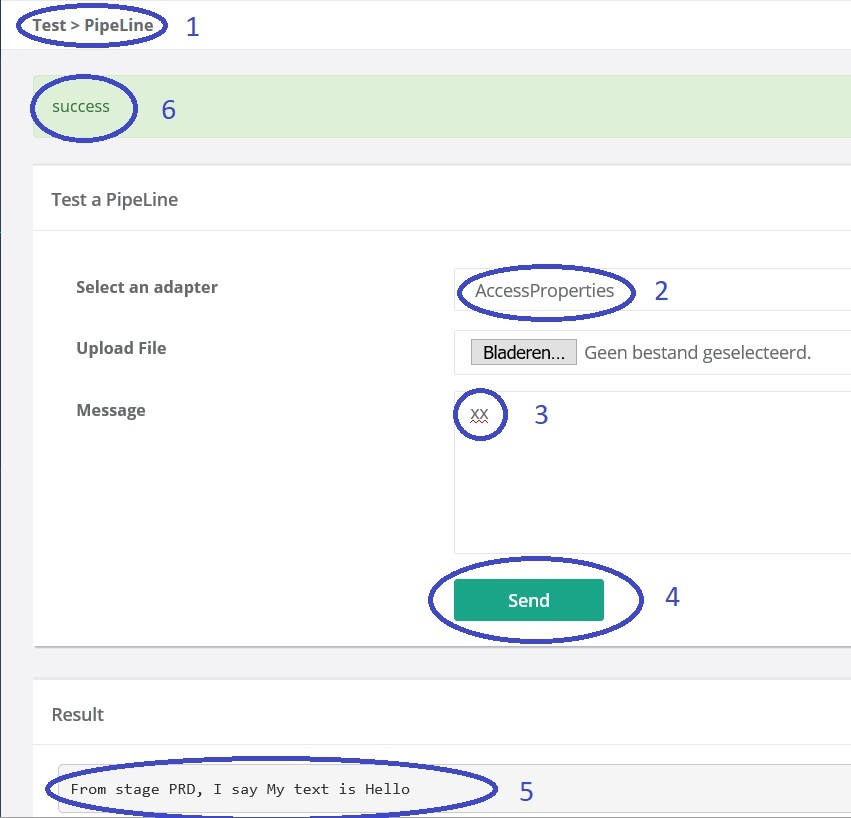
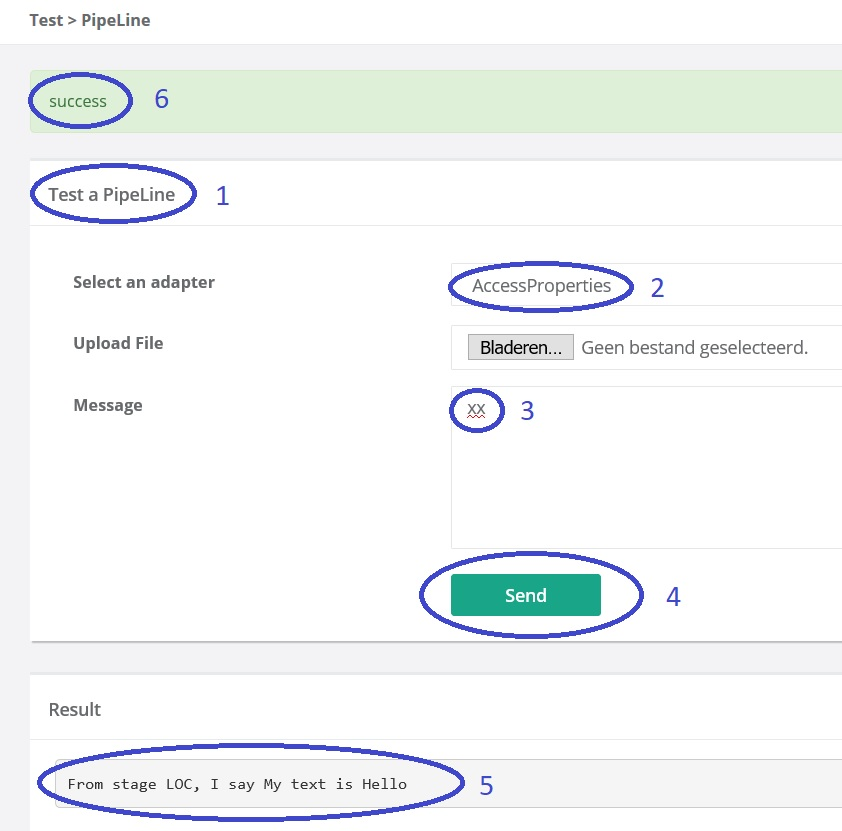
Describe deploying Larva tests by hand

diff --git a/docs/source/deploying/tomcatBasic.rst b/docs/source/deploying/tomcatBasic.rst
@@ -21,7 +21,14 @@ As a starting point you need a Linux PC, a Linux virtual machine or a Docker con
         |- Configuration.xml
         |- ConfigurationReferenceProperties.xml
         |- DeploymentSpecifics.properties
+  |- tests
+     |- myConfig
+        |- scenario01.properties
+        |- step1.txt
+        |- step2.txt
   |- downloadLibraries.sh
+  |- Dockerfile
+  |- resorceDef
 
 When you are done with these preparations, please do the following:
 
@@ -117,9 +124,24 @@ With these steps, you have deployed the Frank!Framework on your Docker container
      >> ls
 
    You should see the copied files within your deployment.
-#. The ``configurations`` directory is stored outside the deployment on your application server. You can use the copy you stored in ``/home/root/Downloads/work/configurations``. This is not the default location expected by the Frank!Framework. You have to tell the Frank!Framework that you choose a custom directory for configuration ``myConfig``. You will do this by setting a system property. You can set system properties in Tomcat by defining them in file ``/usr/local/tomcat/conf/catalina.properties``. Please add the following line to this file: ::
+#. You need to set the DTAP stage as a system property. You can set system properties in Tomcat by defining them in file ``/usr/local/tomcat/conf/catalina.properties``. Please add the following line to this file:
+
+   .. code-block:: none
+      
+      otap.stage=LOC
+
+   .. WARNING::
+
+      It is not realistic that we do a manual deployment on Tomcat but that we have DTAP stage LOC. If you are developing, use Tomcat4Frank or Docker4Frank if possible. We choose DTAP stage LOC because we are including a Larva test in our deployment, which is not realistic in a production environment.
+
+#. The ``configurations`` directory is stored outside the deployment on your application server. You can use the copy you stored in ``/home/root/Downloads/work/configurations``. This is not the default location expected by the Frank!Framework. You have to tell the Frank!Framework that you choose a custom directory for configuration ``myConfig``. You will do this by setting a system property. Please add the following line to ``catalina.properties``: ::
 
      configurations.myConfig.directory=/home/root/Downloads/work/configurations
+
+#. Franks have a ``tests`` directory. This directory contains automated tests that can be executed using the Larva service. The Frank!Framework needs two system properties to be able to find them. Please append the following to ``catalina.properties``: ::
+
+     scenariosroot1.directory=/home/root/Downloads/work/tests/
+     scenariosroot1.description=My Larva tests
 
 #. Finally configure your database by configuring a JNDI resource, see https://tomcat.apache.org/tomcat-7.0-doc/jndi-resources-howto.html for more information. Please add the following lines to ``/usr/local/tomcat/conf/context.xml``:
 
@@ -148,7 +170,7 @@ Test your work
 
 You can test your work with the following steps:
 
-21. Restart your docker container with the following commands: ::
+23. Restart your docker container with the following commands: ::
 
      > docker stop tomcat-frank
      > docker start tomcat-frank
@@ -173,4 +195,14 @@ You can test your work with the following steps:
 
    .. image:: testPipeline.jpg
 
-#. Check that you get the result message ``From stage PRD, I say My text is Hello`` (number 5) and that processing was successful. You should see a green bar with the word "success" (number 6).
+#. Check that you get the result message ``From stage LOC, I say My text is Hello`` (number 5) and that processing was successful. You should see a green bar with the word "success" (number 6).
+
+#. Please click "Larva" as shown in the screen below:
+
+   .. image:: frankConsoleFindTestTools.jpg
+
+#. You see you are in the Larva screen (number 1 in the figure below). Please enter "/" (number 2) to select all tests into your scenario root (number 3). Please note that you see the name here you configured using system property ``scenariosroot1.description``. Press "start" (number 4) to run your tests.
+
+   .. image:: larva.jpg
+
+#. Check that your tests succeed (number 5).
